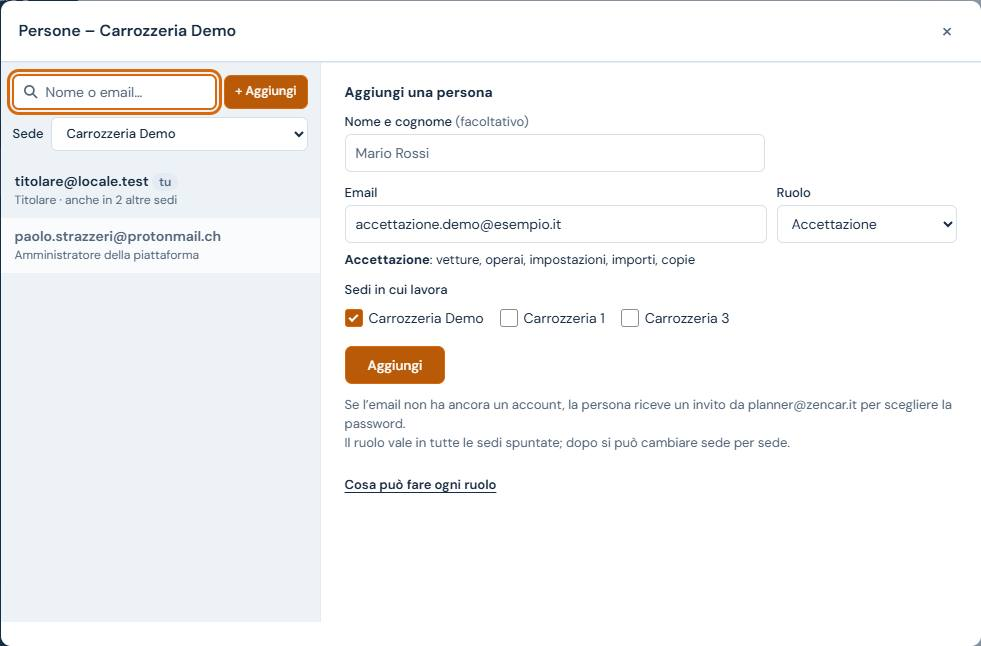
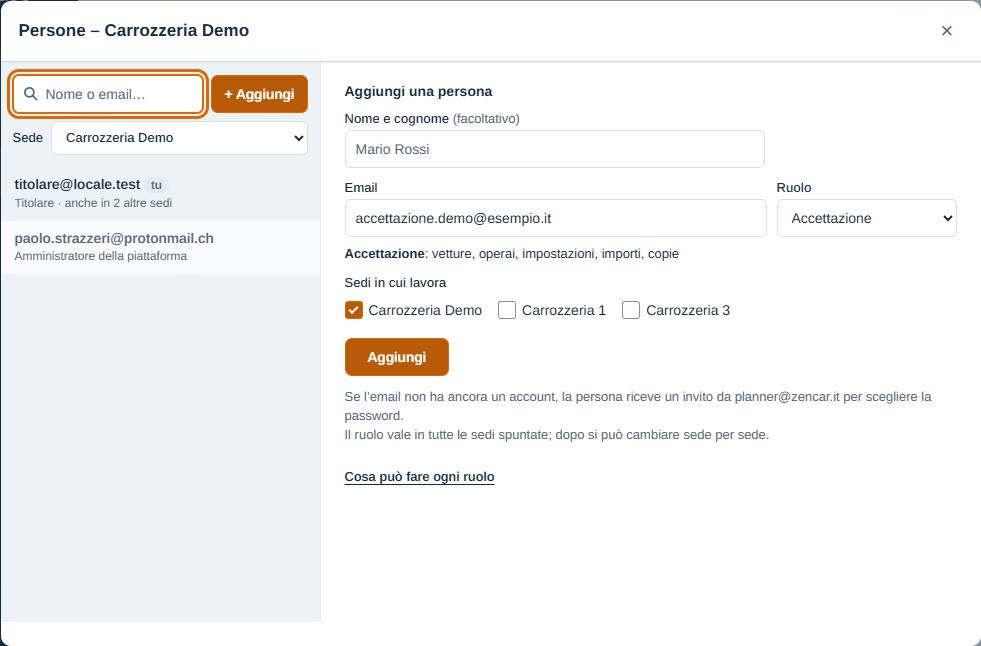
Planner 0.33.0: conferme nello stile dell'app, finestra Persone e carrozzerie eliminate rifinite

diff --git a/planner/accesso.js b/planner/accesso.js
@@ -271,6 +271,25 @@ const Accesso = (() => {
      dalla pagina, che si ridisegna a ogni cambio; il testo arriva al lettore di schermo da una zona di stato sempre presente. */
   const CHIUDI = '<svg width="16" height="16" viewBox="0 0 24 24" fill="none" stroke="currentColor" stroke-width="2.2" stroke-linecap="round" aria-hidden="true"><path d="M6 6l12 12M18 6L6 18"/></svg>';
   let avviso = null, annuncio = null, tempoAvviso = 0, rimetti = null;
+  /* domande nello stile dell'app (2026-11-13), al posto della finestrella grigia del browser. Il titolo è la domanda,
+     sotto le conseguenze; «Annulla», Esc e la chiusura rispondono di no. Il cursore parte da «Annulla». */
+  let dlgC = null;
+  const domanda = (frase, si) => { const i = frase.indexOf('?') + 1; return chiedi(frase.slice(0, i) || frase, frase.slice(i).trim(), si); };
+  function chiedi(titolo, testo, si, pericolo = true) {
+    if (!dlgC) {
+      dlgC = document.createElement('dialog'); dlgC.id = 'lconf'; dlgC.setAttribute('aria-labelledby', 'lconfTit'); dlgC.setAttribute('aria-describedby', 'lconfTesto');
+      dlgC.addEventListener('keydown', ev => ev.stopPropagation());
+      document.body.appendChild(dlgC);
+    }
+    return new Promise(fine => {
+      dlgC.innerHTML = `<div class="dh"><h3 id="lconfTit">${esc(titolo)}</h3></div><div class="db"><p id="lconfTesto">${esc(testo)}</p></div>
+        <div class="df"><button type="button" class="btn" data-no="1">Annulla</button><button type="button" class="btn pri${pericolo ? ' del' : ''}" data-si="1">${esc(si)}</button></div>`;
+      const chiudi = v => { dlgC.onclick = dlgC.onclose = null; if (dlgC.open) dlgC.close(); fine(v); };
+      dlgC.onclick = ev => { const b = ev.target.closest('button'); if (b) chiudi(!!b.dataset.si); };
+      dlgC.onclose = () => chiudi(false);
+      dlgC.showModal(); dlgC.querySelector('[data-no]').focus();
+    });
+  }
   function mostraAvviso(testo, annulla) {
     if (!avviso) {
       annuncio = document.createElement('p'); annuncio.id = 'lannuncio'; annuncio.setAttribute('role', 'status');
@@ -493,7 +512,7 @@ const Accesso = (() => {
     if (t.dataset.gsChat) return apriChat(t.dataset.gsChat, t.dataset.gsTesto || '');
     if (t.dataset.gestore) return apriGestore();
     if (t.dataset.gsAggiorna) return apriGestore({}, true);
-    if (t.dataset.gs) { if (t.dataset.gsConferma && !confirm(t.dataset.gsConferma)) return; return apriGestore({ azione: t.dataset.gs, id: t.dataset.gsId || '' }); }
+    if (t.dataset.gs) { if (t.dataset.gsConferma && !(await domanda(t.dataset.gsConferma, 'Elimina'))) return; return apriGestore({ azione: t.dataset.gs, id: t.dataset.gsId || '' }); }
     if (t.dataset.gsChiudi) return mostraElenco('[data-gestore]');
     if (t.dataset.gsApri) { const g = t.closest('[data-gs-gruppo]'), parte = t.dataset.gsApri; if (g && aperti[parte]) { aperti[parte][g.dataset.gsGruppo] = !g.classList.contains('apri-' + parte); salvaAperti(); mostraAperti(); } return; }
     S.msg = ''; S.ok = '';
@@ -518,13 +537,13 @@ const Accesso = (() => {
     try {
       if (t.dataset.gdel) {
         const g = S.gruppi.find(x => x.id === t.dataset.gdel);
-        if (!g || !confirm('Eliminare il gruppo «' + g.nome + '»? Le carrozzerie restano: passano tra quelle senza gruppo. Il gruppo sparisce anche dal Gestore.')) return mostraElenco(`[data-gdel="${t.dataset.gdel}"]`);
+        if (!g || !(await chiedi('Eliminare il gruppo «' + g.nome + '»?', 'Le carrozzerie restano: passano tra quelle senza gruppo. Il gruppo sparisce anche dal Gestore.', 'Elimina il gruppo'))) return mostraElenco(`[data-gdel="${t.dataset.gdel}"]`);
         const { error } = await sb.from('gruppi_gestore').delete().eq('id', g.id); if (error) throw error;
         return aggiorna('', '[data-gnuovo]');
       }
       if (t.dataset.del) {
         const s = voce(t.dataset.del);
-        if (!confirm('Eliminare ' + s.nome + '? Sparisce dall’elenco, ma i suoi dati restano recuperabili da «Carrozzerie eliminate».')) return mostraElenco();
+        if (!(await chiedi('Eliminare ' + s.nome + '?', 'Sparisce dall’elenco, ma i suoi dati restano recuperabili da «Carrozzerie eliminate».', 'Elimina'))) return mostraElenco(`[data-menu="${s.id}"]`);
         const { error } = await sb.rpc('elimina_carrozzeria', { c: s.id, definitiva: false }); if (error) throw error;
         return aggiorna();
       }
@@ -534,7 +553,7 @@ const Accesso = (() => {
       }
       if (t.dataset.wipe) {
         const s = voce(t.dataset.wipe);
-        if (!confirm('Eliminare definitivamente ' + s.nome + '? Operai, vetture, impostazioni e copie di sicurezza verranno cancellati e non si potranno recuperare.')) return;
+        if (!(await chiedi('Eliminare definitivamente ' + s.nome + '?', 'Operai, vetture, impostazioni e copie di sicurezza verranno cancellati e non si potranno recuperare.', 'Elimina definitivamente'))) return t.focus();
         t.disabled = true; t.textContent = 'Eliminazione…';
         const { error } = await sb.rpc('elimina_carrozzeria', { c: s.id, definitiva: true }); if (error) throw error;
         return aggiorna();
@@ -722,7 +741,6 @@ const Accesso = (() => {
     if (f) { f.setAttribute('aria-invalid', 'true'); f.setAttribute('aria-describedby', id); f.focus(); }
   }
   // una sola domanda, che dice chiaramente cosa fa «OK»
-  const domandaScarta = (n, chi) => (n === 1 ? 'Hai 1 modifica non salvata' : 'Hai ' + n + ' modifiche non salvate') + (chi ? ' per ' + chi : '') + '.\nOK = scartale, Annulla = continua a modificare.';
   let dlgP = null;
   const P = { dati: null, scelta: null, cerca: '', filtro: '', bozza: null, email: '' };
   const pareEmail = t => /^[^s@]+@[^s@]+.[^s@]+$/.test(t);
@@ -731,23 +749,23 @@ const Accesso = (() => {
     if (!dlgP) {
       dlgP = document.createElement('dialog'); dlgP.id = 'dlgPersone'; dlgP.setAttribute('aria-label', 'Persone');
       document.body.appendChild(dlgP);
-      dlgP.addEventListener('click', ev => {
-        if (ev.target.closest('[data-x]')) { if (lasciaBozza()) dlgP.close(); return; } // niente chiusura con un clic sullo sfondo
+      dlgP.addEventListener('click', async ev => {
+        if (ev.target.closest('[data-x]')) { if (await lasciaBozza()) dlgP.close(); return; } // niente chiusura con un clic sullo sfondo
         // il cursore resta sempre al posto giusto: sulla persona scelta, sul campo email, sulla prima spunta
-        const v = ev.target.closest('[data-psel]'); if (v) { if (v.dataset.psel !== P.scelta && lasciaBozza()) { P.scelta = v.dataset.psel; P.bozza = null; P.nome = null; schedaPersone('', '', '.p-voce.on'); } return; }
+        const v = ev.target.closest('[data-psel]'); if (v) { if (v.dataset.psel !== P.scelta && await lasciaBozza()) { P.scelta = v.dataset.psel; P.bozza = null; P.nome = null; schedaPersone('', '', '.p-voce.on'); } return; }
         // dalla ricerca senza risultati (2026-11-06): l'email cercata passa nel modulo, il cursore va sul ruolo
         const nu = ev.target.closest('[data-pnuova]');
-        if (nu) { if (lasciaBozza()) { P.scelta = 'nuova'; P.bozza = null; P.email = nu.dataset.pemail || ''; schedaPersone('', '', P.email ? '.p-form [name=ruolo]' : '.p-form [name=email]'); } return; }
-        if (ev.target.closest('[data-pvedi]')) { if (lasciaBozza()) { P.filtro = ''; P.bozza = null; schedaPersone('', '', '[data-pcerca]'); } return; }
+        if (nu) { if (await lasciaBozza()) { P.scelta = 'nuova'; P.bozza = null; P.email = nu.dataset.pemail || ''; schedaPersone('', '', P.email ? '.p-form [name=ruolo]' : '.p-form [name=email]'); } return; }
+        if (ev.target.closest('[data-pvedi]')) { if (await lasciaBozza()) { P.filtro = ''; P.bozza = null; schedaPersone('', '', '[data-pcerca]'); } return; }
         if (ev.target.closest('[data-ptutte]')) { const b = bozza(); if (b) { for (const c in b) b[c] = ''; schedaPersone('', '', '[data-psalva]'); } return; }
         if (ev.target.closest('[data-pannulla]')) { P.bozza = null; P.nome = null; return schedaPersone('', '', '[data-psede]'); }
         if (ev.target.closest('[data-psalva]')) return salvaBozza();
       });
-      dlgP.addEventListener('change', ev => {
+      dlgP.addEventListener('change', async ev => {
         const c = ev.target.closest('[data-psede]'); if (c) return sedeSiNo(c);
         const r = ev.target.closest('[data-pruolo]'); if (r) return ruoloInSede(r);
         const f = ev.target.closest('[data-pfiltro]');
-        if (f) { if (!lasciaBozza()) { f.value = P.filtro; return; } P.filtro = f.value; P.bozza = null; if (!visibile(personaScelta())) P.scelta = primaVisibile(); return schedaPersone('', '', '[data-pfiltro]'); }
+        if (f) { if (!(await lasciaBozza())) { f.value = P.filtro; return; } P.filtro = f.value; P.bozza = null; if (!visibile(personaScelta())) P.scelta = primaVisibile(); return schedaPersone('', '', '[data-pfiltro]'); }
         if (ev.target.matches('.p-form [name=ruolo]')) { const s = ev.target.form.querySelector('[data-spiega]'); if (s) s.innerHTML = `<strong>${RUOLI[ev.target.value]}</strong>: ${esc(SPIEGA[ev.target.value])}`; }
       });
       dlgP.addEventListener('input', ev => {
@@ -756,7 +774,7 @@ const Accesso = (() => {
       });
       dlgP.addEventListener('submit', ev => { ev.preventDefault(); aggiungiPersona(ev.target); });
       dlgP.addEventListener('keydown', ev => ev.stopPropagation());
-      dlgP.addEventListener('cancel', ev => { if (!lasciaBozza()) ev.preventDefault(); }); // Esc con modifiche non salvate
+      dlgP.addEventListener('cancel', ev => { if (!daSalvare()) return; ev.preventDefault(); lasciaBozza().then(si => si && dlgP.close()); }); // Esc con modifiche non salvate
     }
     return dlgP;
   }
@@ -824,9 +842,10 @@ const Accesso = (() => {
   const daSalvare = () => modifiche().length + (nomeNuovo() === undefined ? 0 : 1);
   const chiE = p => p.nome ? p.nome + ' (' + p.email + ')' : p.email;
   // modifiche non salvate: una sola domanda, che dice chiaramente cosa succede con «OK»
-  function lasciaBozza() {
+  async function lasciaBozza() {
     const n = daSalvare(); if (!n) return true;
-    if (!confirm(domandaScarta(n, (personaScelta() || {}).email))) return false;
+    const chi = (personaScelta() || {}).email;
+    if (!(await chiedi('Scartare le modifiche?', (n === 1 ? 'Hai 1 modifica non salvata' : 'Hai ' + n + ' modifiche non salvate') + (chi ? ' per ' + chi : '') + '.', 'Scarta'))) return false;
     P.bozza = null; P.nome = null; return true;
   }
   const ruoliTutti = () => `<details class="u-ruoli"><summary>Cosa può fare ogni ruolo</summary><dl>${Object.entries(SPIEGA).map(([k, t]) => `<dt>${RUOLI[k]}</dt><dd>${esc(t)}</dd>`).join('')}</dl></details>`;
@@ -906,7 +925,7 @@ const Accesso = (() => {
     const io = p.id === S.utente.id;
     // l'unica domanda: chi toglie a sé stesso il ruolo di titolare in una sede perde la gestione di quella sede
     const perdo = io ? lista.filter(s => p.ruoli[s.id] === 'titolare' && P.bozza[s.id] !== 'titolare') : [];
-    if (perdo.length && !confirm('Non sarai più titolare di ' + perdo.map(s => s.nome).join(', ') + ': non potrai più gestirne utenti e impostazioni. Continuare?')) return;
+    if (perdo.length && !(await chiedi('Togliere a te il ruolo di titolare?', 'Non sarai più titolare di ' + perdo.map(s => s.nome).join(', ') + ': non potrai più gestirne utenti e impostazioni.', 'Continua'))) return;
     const fatto = { aggiunta: [], tolta: [], ruolo: [], nome: false };
     dlgP.querySelectorAll('.p-azioni button').forEach(x => { x.disabled = true; });
     const salva = dlgP.querySelector('[data-psalva]'); if (salva) salva.textContent = 'Salvataggio…';

diff --git a/planner/accesso.css b/planner/accesso.css
@@ -606,3 +606,28 @@ body.vista-tabellone > header.top, body.vista-tabellone > #main { display: none;
 #landing .lcardi.presa .lpresa { cursor: grabbing; }
 /* con poche carrozzerie la pagina è corta: le righe (colonna in cima e contenuto) non si allungano a riempire lo schermo */
 #landing .lpag { align-content: flex-start; }
+/* finestre Persone e conferma con il carattere e i pulsanti della pagina (2026-11-13) */
+#dlgPersone, #lconf { --f: Arimo, Arial, "Helvetica Neue", sans-serif; font-family: var(--f); }
+#dlgPersone .dh h3, #lconf .dh h3 { margin: 0; font: 700 17px var(--f); color: var(--navy); }
+#dlgPersone .btn, #lconf .btn { min-height: 38px; padding: 0 16px; border-radius: 7px; font: 600 14px var(--f); }
+#dlgPersone .p-cerca input, #dlgPersone .p-cerca .btn { height: 38px; min-height: 38px; }
+#dlgPersone .p-cerca .btn { padding: 0 12px; }
+#lconf { width: min(460px, 94vw); }
+#lconf .dh { border-bottom: 0; padding: 20px 22px 0; }
+#lconf .db { padding: 10px 22px 6px; }
+#lconf .db p { margin: 0; font-size: 15px; line-height: 1.5; color: var(--ink); }
+#lconf .df { border-top: 0; padding: 16px 22px 20px; }
+#lconf .btn.pri.del { background: var(--bad); border-color: var(--bad); color: #fff; }
+#lconf .btn:focus-visible { outline: 2px solid var(--tape-chiaro); outline-offset: 2px; }
+@media (max-width: 640px) { #lconf .df { flex-direction: column-reverse; } #lconf .df .btn { width: 100%; min-height: 44px; } }
+/* carrozzerie eliminate: pulsanti comodi da premere, su telefono uno sotto l'altro, sotto il nome (2026-11-13) */
+#landing .lgone { padding: 14px 18px; border-radius: 12px; }
+#landing .lgrow { gap: 10px; padding: 10px 0; flex-wrap: wrap; }
+#landing .lgrow span { font-size: 15px; font-weight: 600; color: var(--ink); min-width: 0; overflow-wrap: anywhere; }
+#landing .lgrow button { height: 38px; padding: 0 16px; border-radius: 7px; font: 600 14px var(--f, system-ui); }
+#landing .lgrow button[data-restore] { background: #fff; border-color: var(--navy); color: var(--navy); }
+#landing .lgrow button[data-restore]:hover { background: var(--surface-2); }
+#landing .lgrow button.del { background: #fff; border-color: color-mix(in srgb, var(--bad) 45%, #fff); }
+#landing .lgrow button.del:hover { background: color-mix(in srgb, var(--bad) 8%, #fff); border-color: var(--bad); }
+#landing .lgrow button:focus-visible { outline: 2px solid var(--tape-chiaro); outline-offset: 2px; }
+@media (max-width: 640px) { #landing .lgrow span { flex: 1 0 100%; } #landing .lgrow button { flex: 1 0 100%; height: 44px; } }
